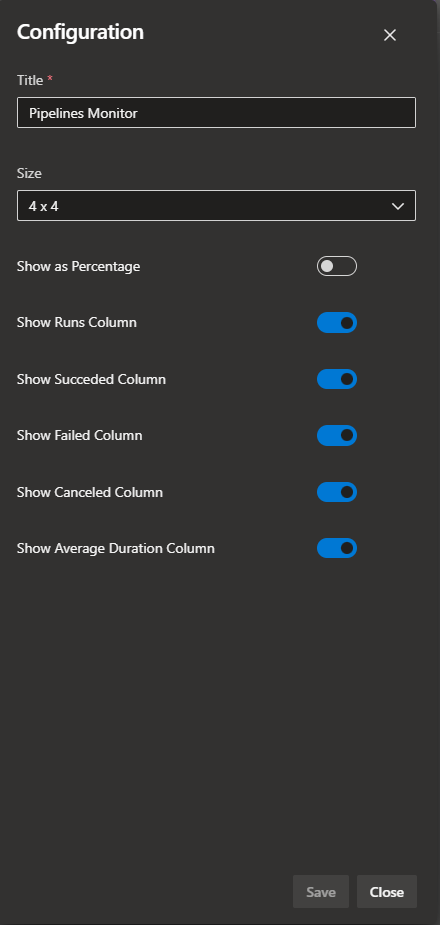
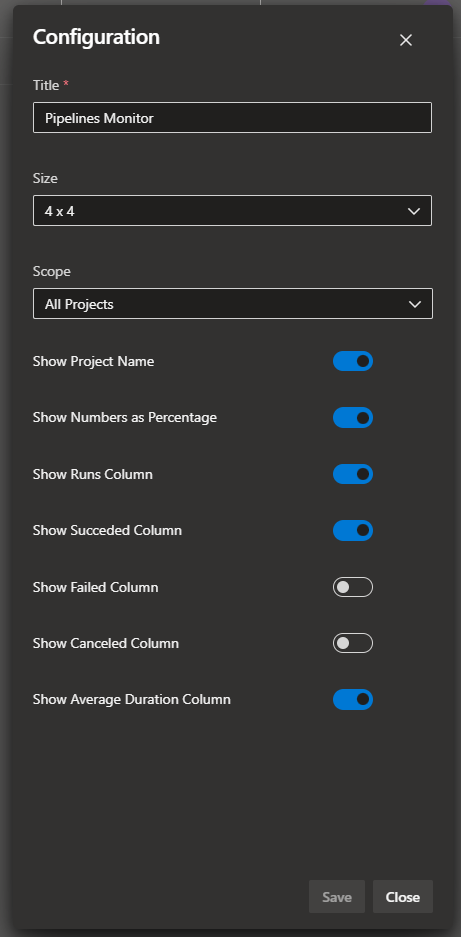
View pipeline statistics across projects

diff --git a/src/services/pipelines.ts b/src/services/pipelines.ts
@@ -98,10 +98,33 @@ async function getBuildsGroupedByPipeline(
   projectName: string,
   pipelines: Pipeline[]
 ): Promise<Map<string, Build[]>> {
-  const builds = await getClient(BuildRestClient).getBuilds(
+  const buildsClient = getClient(BuildRestClient);
+  const builds = await buildsClient.getBuilds(
     projectName,
     pipelines.map((p) => p.id)
   );
+
+  let continuationToken = builds.continuationToken;
+  while (continuationToken !== null) {
+    const continuationBuilds = await buildsClient.getBuilds(
+      projectName,
+      pipelines.map((p) => p.id),
+      undefined,
+      undefined,
+      undefined,
+      undefined,
+      undefined,
+      undefined,
+      undefined,
+      undefined,
+      undefined,
+      undefined,
+      undefined,
+      builds.continuationToken ?? ""
+    );
+    continuationToken = continuationBuilds.continuationToken;
+    builds.push(...continuationBuilds);
+  }
   const map = new Map();
 
   builds

diff --git a/src/components/PipelinesWidget/PipelinesWidget.tsx b/src/components/PipelinesWidget/PipelinesWidget.tsx
@@ -159,7 +159,7 @@ class PipelinesWidget
     ];
 
     if (showProjectName) {
-      columns.push(addPipelineTableColumn("projectName", "Project", -30, renderSimpleCell, { ariaLabelAscending: "Sorted A to Z", ariaLabelDescending: "Sorted Z to A", }));
+      columns.push(addPipelineTableColumn("projectName", "Project", -25, renderSimpleCell, { ariaLabelAscending: "Sorted A to Z", ariaLabelDescending: "Sorted Z to A", }));
       sortFunctions.push((item1: IPipelineTableItem, item2: IPipelineTableItem): number => item1.projectName.localeCompare(item2.projectName));
     }
 
@@ -288,7 +288,11 @@ class PipelinesWidget
       this.setState({ title: widgetSettings.name, pipelines, ...deserialized });
 
     } catch (e) {
-      console.log("Error: ", e);
+      this.setState({
+        title: "Pipelines Monitor",
+        error: true,
+        errorMessage: "No pipelines found"
+      })
     }
   }
 

diff --git a/src/components/PipelinesWidgetConfig/PipelinesWidgetConfig.tsx b/src/components/PipelinesWidgetConfig/PipelinesWidgetConfig.tsx
@@ -53,7 +53,7 @@ class PipelinesWidgetConfig
     return (
       <div className="content">
         <div className="flex-column">
-          <label className="select-label">Render Data From:</label>
+          <label className="select-label">Scope</label>
           <div className="flex-column">
             <Dropdown
               ariaLabel="Basic"

diff --git a/README.md b/README.md
@@ -1,6 +1,6 @@
 # Pipelines Monitor
 
-**Pipelines Monitor**: A Azure DevOps extension designed to deliver insightful analytics on pipeline executions within your Team Project. Seamlessly integrating as a widget, it enhances your Azure DevOps Dashboard by providing a breakdown of your pipelines.
+**Pipelines Monitor**: A Azure DevOps extension designed to deliver insightful analytics on pipeline executions across your organization. Seamlessly integrating as a widget, it enhances your Azure DevOps Dashboard by providing a breakdown of your pipelines.
 
 ![](https://github.com/danilocolombi/pipelines-monitor/blob/main/documentation/images/widget-preview.png?raw=true)
 
@@ -13,7 +13,7 @@
 
 ## Pipelines Monitor Features
 
-- **Comprehensive Pipeline Inventory**: Gain a comprehensive view of all pipelines within your Team Project.
+- **Comprehensive Pipeline Inventory**: Gain a comprehensive view of all pipelines within your organization.
 - **Pipeline Execution Tracking**: Monitor the total number of executions for each pipeline.
 - **Outcome Categorization**: Classify and count the pipeline runs by their outcomes — successful, failed, or canceled.
 - **Performance Metrics**: Calculate and review the average time taken for the completion of pipeline runs.
